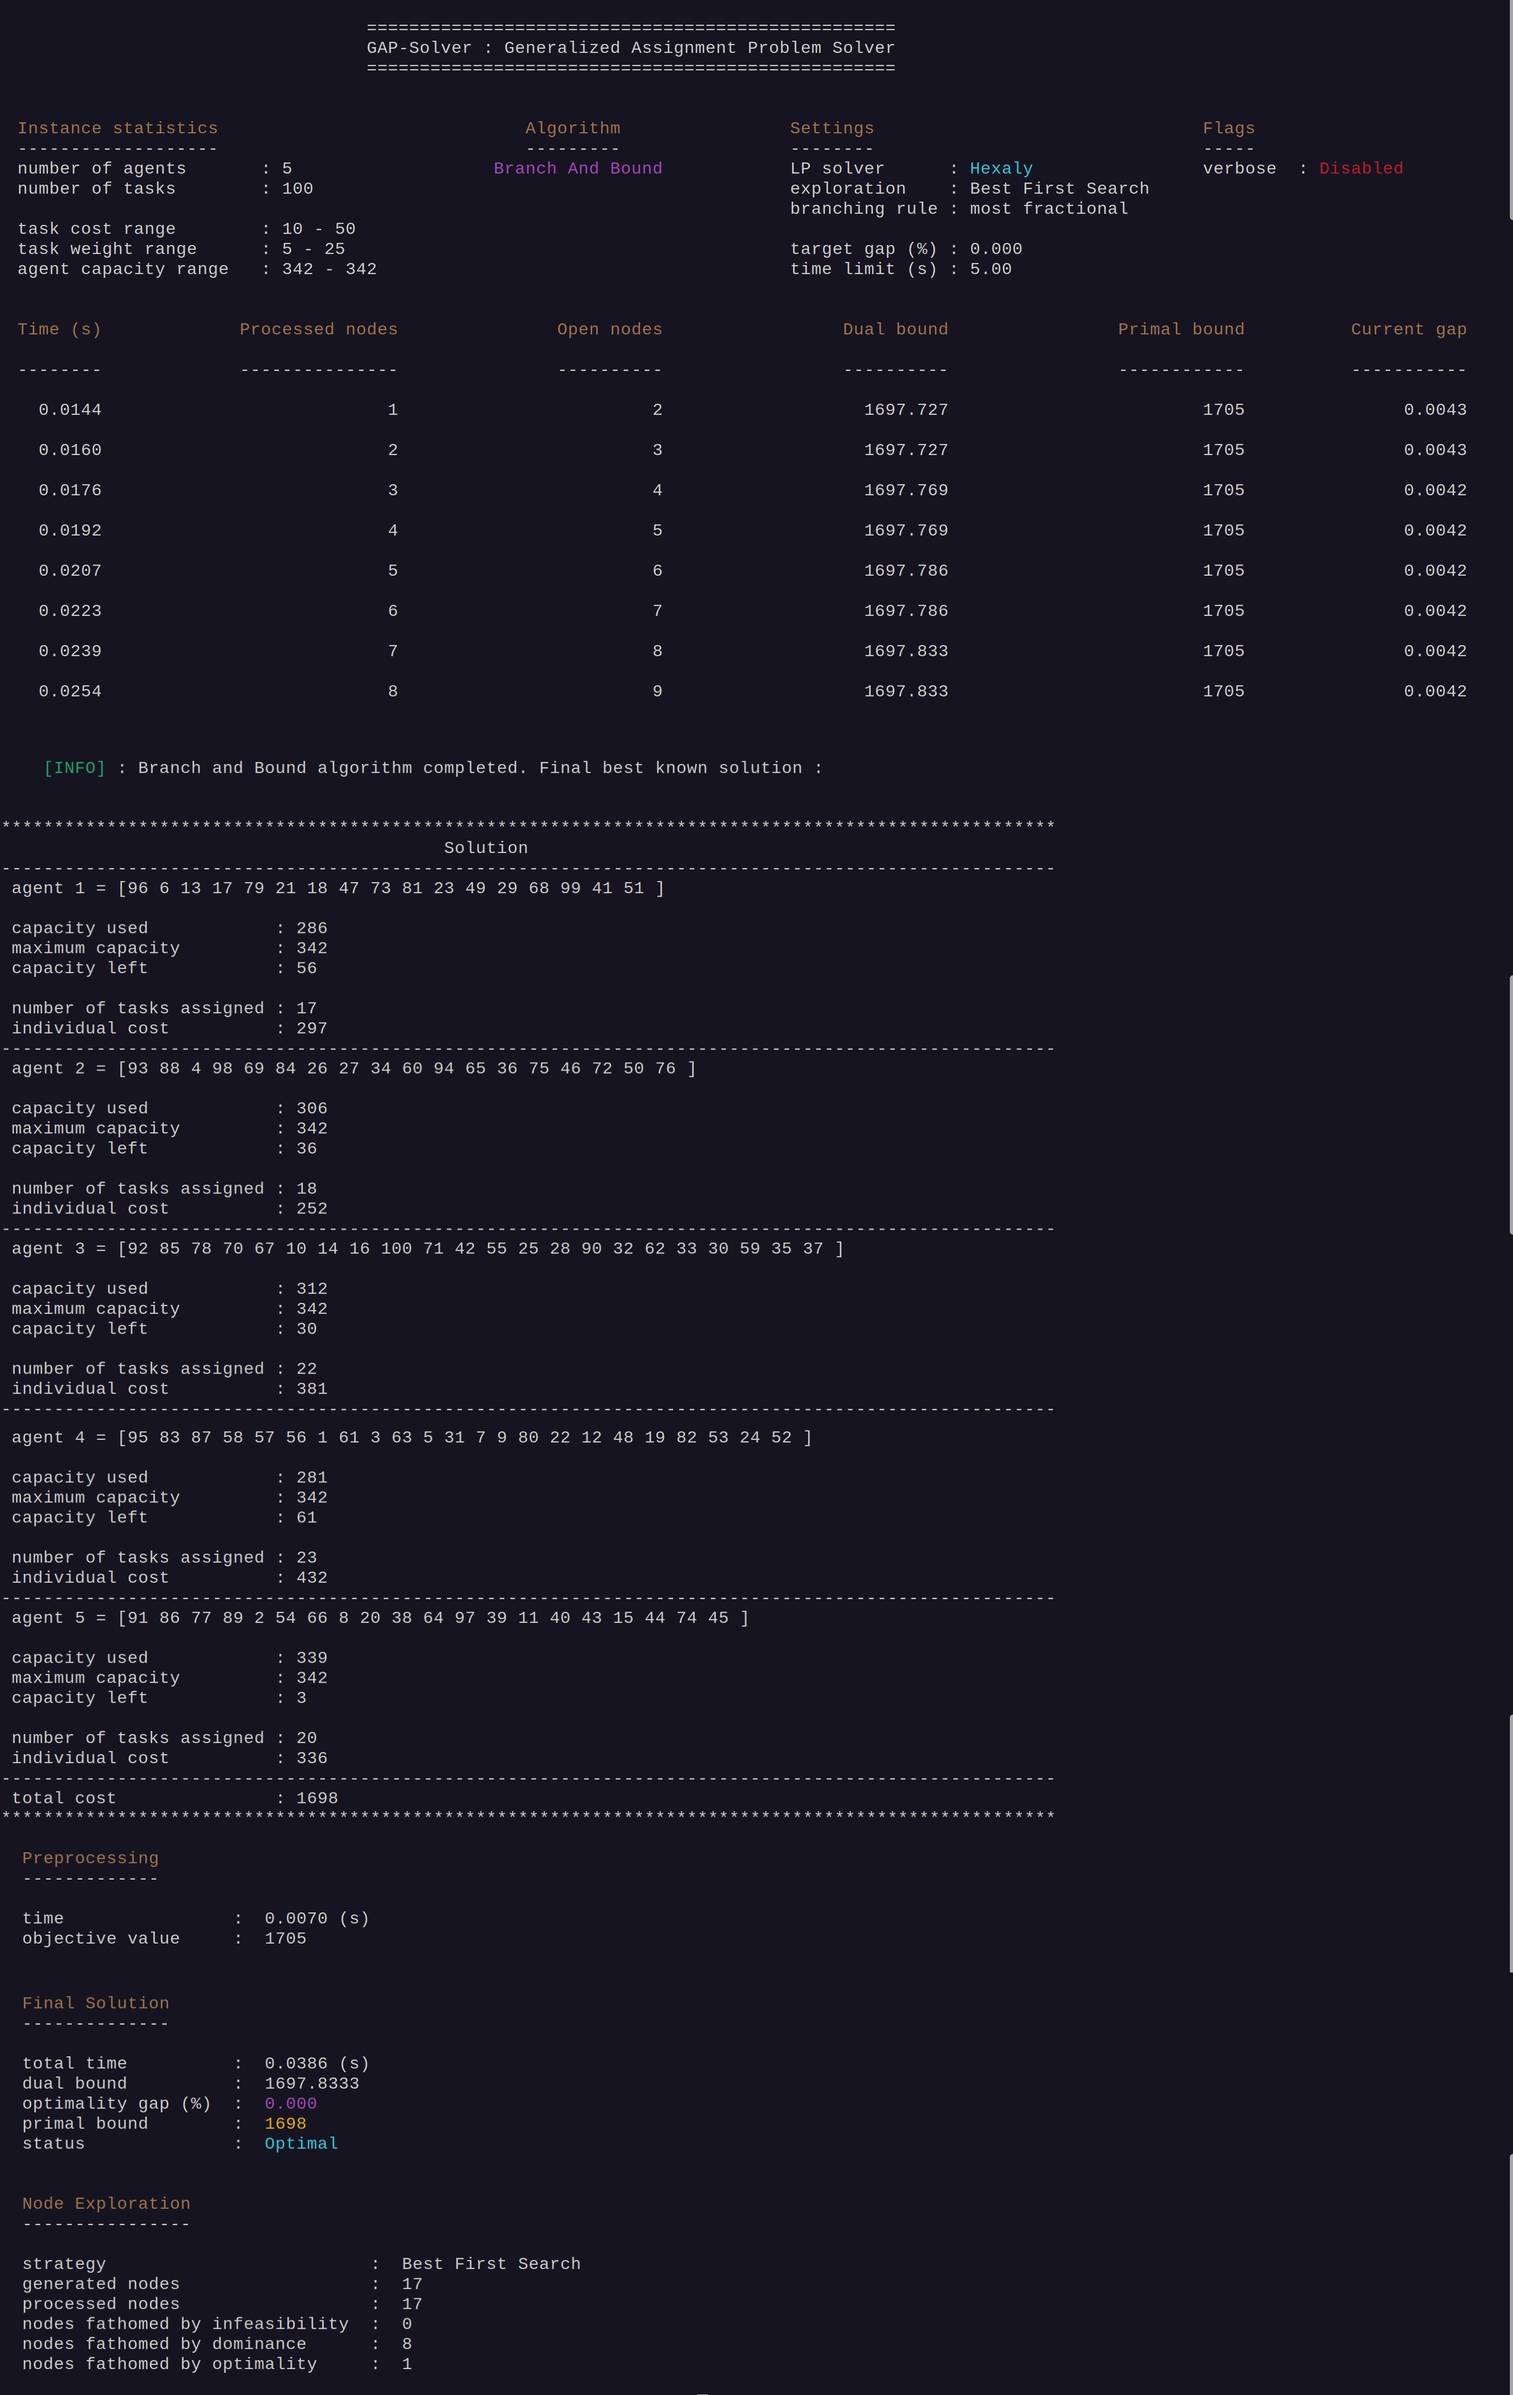
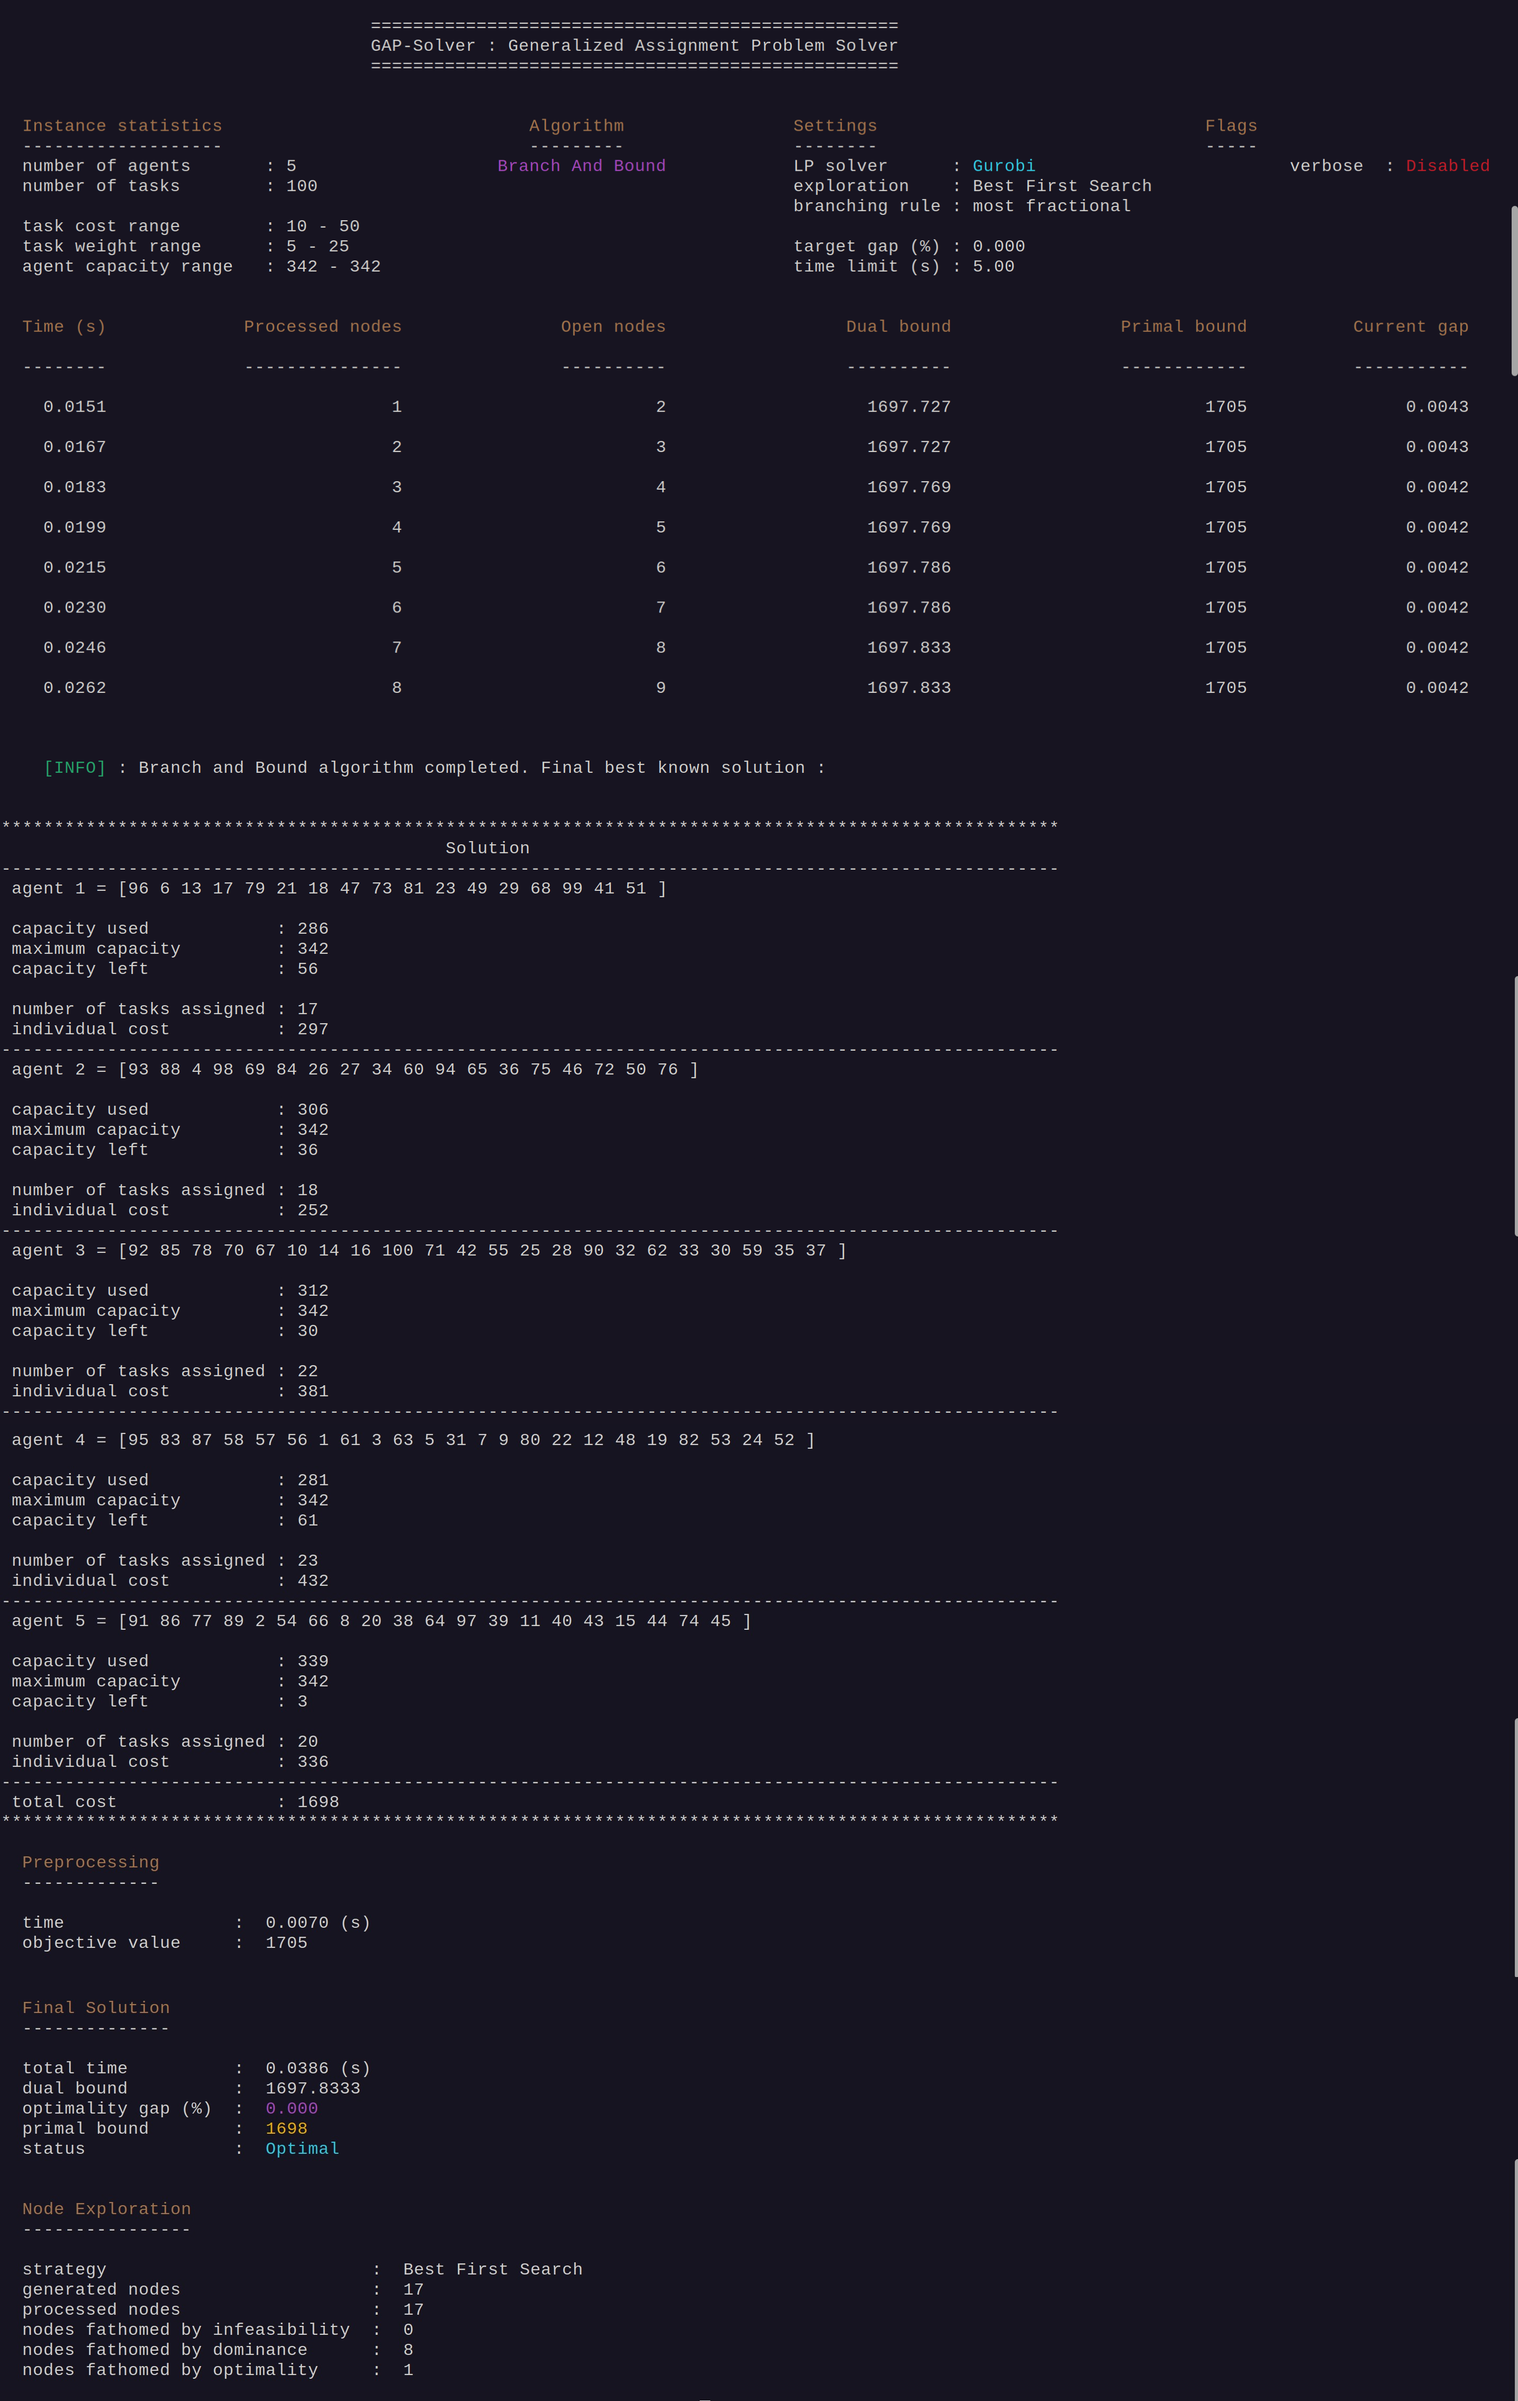
Update

diff --git a/src/output/OutputFormat.cpp b/src/output/OutputFormat.cpp
@@ -54,7 +54,7 @@
                         << "Number of ants within a colony for the ACO algorithm \n\n";
 
                 std::cout << "    " << setw(22) << left << "--solver=value"
-                        << "MILP solver to use (gurobi, hexaly, highs) \n\n \n";
+                        << "LP solver to use (gurobi, highs, hexaly). Hexaly is only used for a MILP resolution approch! \n\n \n";
         }
 
 

diff --git a/README.md b/README.md
@@ -194,12 +194,12 @@ Additionnal options are discribed in the help message, such as :
 ## 5. Run the Branch and Bound algorithm (with greedy primal solution)
 
 ``` bash
-./gap_solver --algorithm=bab --instance=../benchmarks/gap_a/a05100  --time-limit=5 --solver=hexaly 
+./gap_solver --algorithm=bab --instance=../benchmarks/gap_a/a05100  --time-limit=5 --solver=gurobi 
 --exploration=bfs  --branching-rule=fractional --gap=0.0
 ```
 
 
-- **--solver**  is a required option for the linear relaxation in the B&B
+- **--solver**  is a required option for the linear relaxation in the B&B. Only Gurobi and Highs are used for the linear relaxation within the B&B algorithm. **Hexaly** is used for MIP resolution approch potentially with an initial solution (warm start). 
 - **--exploration** is not a mandatory option. It defines the nodes exploration strategy (Best First or Depth First)
 - **--branching-rule** is also optional. It defines the criteria for the branching variable (zero, one or fractional)
 
